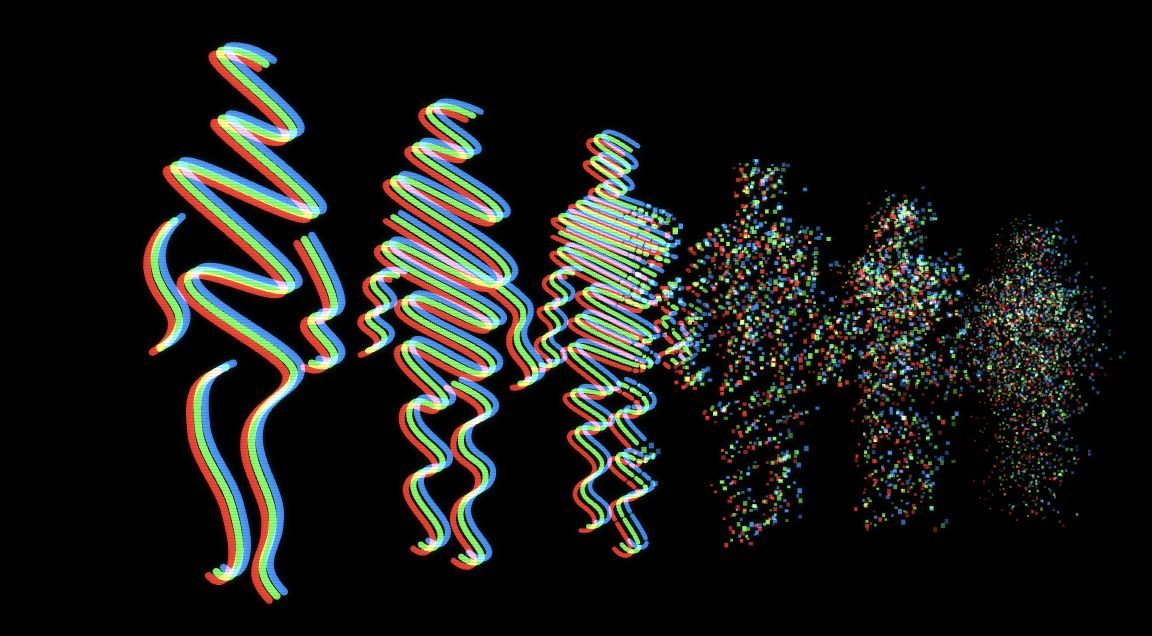
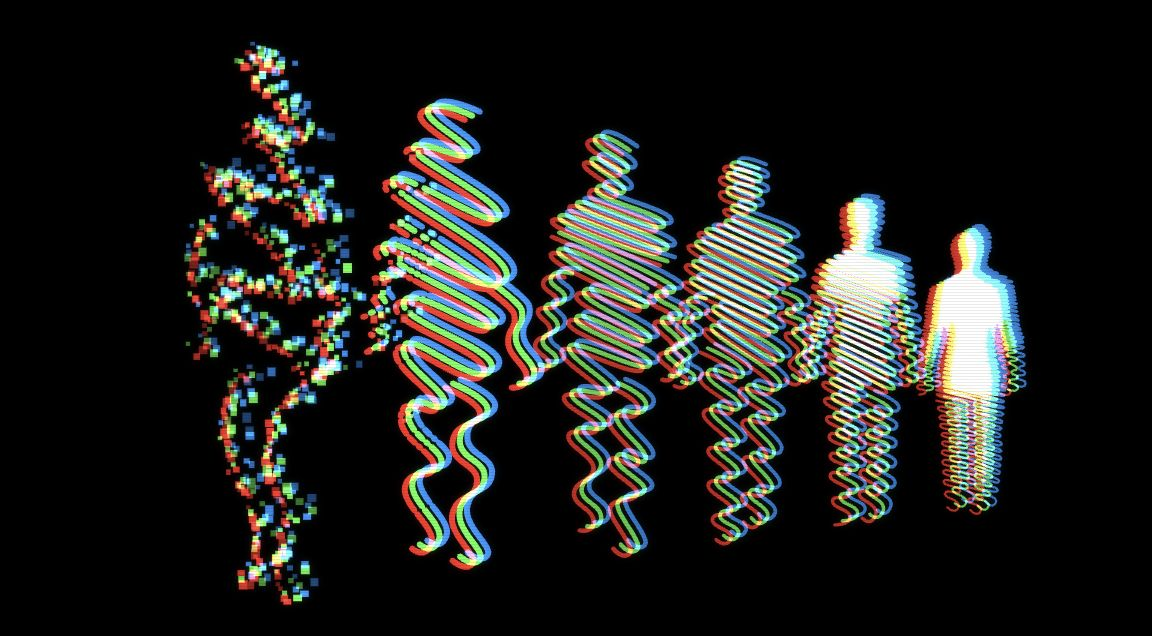
feat(afterbody): reverse dissolve sweep direction

Changed region(s): [[0.125, 0.0597, 0.9688, 0.956]]

diff --git a/pages/afterbody/script.ts b/pages/afterbody/script.ts
@@ -395,7 +395,7 @@ function solidPointPosition(point: FigurePoint, echoIndex: number, time: number)
 }
 
 function spawnTimeFor(designX: number, point: FigurePoint, echoIndex: number): number {
-  const xProgress = 1 - clamp(designX / DESIGN_WIDTH, 0, 1);
+  const xProgress = clamp(designX / DESIGN_WIDTH, 0, 1);
   const jitter = (hash(point.x, point.y, echoIndex) - 0.5) * settings.sweepJitter;
   return settings.hold + xProgress * settings.sweepDuration + jitter;
 }

diff --git a/pages/afterbody/index.html b/pages/afterbody/index.html
@@ -22,7 +22,7 @@
       id="artwork"
       tabindex="0"
       role="img"
-      aria-label="겹쳐진 인체 잔상이 오른쪽부터 RGB 입자로 흩어지는 인터랙티브 작품"
+      aria-label="겹쳐진 인체 잔상이 왼쪽부터 RGB 입자로 흩어지는 인터랙티브 작품"
     ></canvas>
     <p id="hint" aria-live="polite">TAP TO DISSOLVE</p>
   </main>

diff --git a/pages/afterbody/design-qa.md b/pages/afterbody/design-qa.md
@@ -21,7 +21,7 @@
 
 ## Findings
 
-No actionable P0, P1, or P2 differences remain for the requested SVG asset replacement.
+No actionable P0, P1, or P2 differences remain for the requested SVG asset replacement and left-to-right dissolve.
 
 - Fonts and typography: the source contains no artwork typography. The low-contrast `TAP TO DISSOLVE` hint stays outside the figure and does not affect the source composition.
 - Spacing and layout rhythm: the SVGs retain their authored dimensions, which already encode the progressive size reduction. Independent centers place them in the same left-to-right overlap rhythm as the reference. The landscape composition remains centered without overflow at `390 × 844` mobile.
@@ -29,7 +29,7 @@ No actionable P0, P1, or P2 differences remain for the requested SVG asset repla
 - Image quality and asset fidelity: `figure-1.svg` through `figure-6.svg` are the unchanged paths supplied in `SORI.zip`. Idle rendering uses their actual Bézier geometry and original progressive stroke widths. The first figure remains a continuous sparse line; the final figure has a surface-like torso and individually readable dense legs. Square particles appear only after the dissolve front reaches a path segment.
 - Copy and content: `TAP TO DISSOLVE` changes to `TAP TO REPLAY` after the sequence. No additional visible copy is introduced.
 - Icons: none are required by the source or implementation.
-- Interaction and accessibility: pointer activation completed the right-to-left dissolve and reached `TAP TO REPLAY`. `M` switched to the solid human mode and back. Keyboard activation/reset behavior and reduced-motion handling remain in the implementation.
+- Interaction and accessibility: pointer activation completed the left-to-right dissolve and reached `TAP TO REPLAY`. The canvas accessibility label describes the same direction. `M` switched to the solid human mode and back. Keyboard activation/reset behavior and reduced-motion handling remain in the implementation.
 - Browser verification: the SVG starting state, mid-dissolve state, replay state, line/solid mode switch, desktop view, and `390 × 844` mobile view were tested in the existing Chrome window. Chrome reported no warnings or errors.
 
 ## Comparison History
@@ -66,6 +66,11 @@ No actionable P0, P1, or P2 differences remain for the requested SVG asset repla
 
 - No P0, P1, or P2 findings. The normalized source/implementation comparison, SVG idle rendering, corrected dissolve, replay completion, Solid toggle, mobile layout, type checking, production build, and Chrome console checks passed.
 
+### Pass 7
+
+- The dissolve direction was intentionally reversed at the user's request. The leftmost sparse figure now enters the particle state first, and the sweep continues toward the rightmost dense figure.
+- Post-change evidence: `implementation-sori-svg-dissolve.png` shows the left side dispersed while the right side remains intact.
+
 ## Open Questions
 
 - The reference is a photographed TFT, so its optical bloom and camera softness merge neighboring lines more than the browser canvas. The implementation preserves the supplied SVG paths and uses a small glow rather than changing their geometry to imitate camera compression.
@@ -77,7 +82,7 @@ No actionable P0, P1, or P2 differences remain for the requested SVG asset repla
 - [x] Preserve their authored left-to-right size and density progression.
 - [x] Keep a surface-like upper body and line-readable lower body on the final SVG.
 - [x] Keep separate SVG subpaths disconnected during the dissolve.
-- [x] Preserve RGB offset, right-to-left dissolve, particle drift, replay, and both figure modes.
+- [x] Preserve RGB offset, left-to-right dissolve, particle drift, replay, and both figure modes.
 - [x] Verify desktop/mobile rendering, interactions, build, and console output.
 
 ## Follow-up Polish

diff --git a/pages/afterbody/spec.md b/pages/afterbody/spec.md
@@ -17,7 +17,7 @@
 
 1. `idle`: 인체 잔상이 작은 파동을 유지한다.
 2. 클릭, 터치, `Space`, `Enter`: 붕괴를 시작한다.
-3. `dissolving`: 오른쪽에서 왼쪽으로 붕괴 전선이 이동한다.
+3. `dissolving`: 왼쪽에서 오른쪽으로 붕괴 전선이 이동한다.
 4. 분리된 RGB 입자는 오른쪽으로 이동하고 위아래로 확산하며 사라진다.
 5. `blank`: 검은 화면에 머물며 다음 입력으로 다시 재생한다.
 
@@ -26,7 +26,7 @@
 ## 기본 타이밍
 
 - 입력 후 유지: 약 `0.72초`
-- 오른쪽 → 왼쪽 붕괴: 약 `3.25초`
+- 왼쪽 → 오른쪽 붕괴: 약 `3.25초`
 - 입자 잔류: 최대 약 `3.35초`
 - 전체 시퀀스: 약 `7.8초`
 
